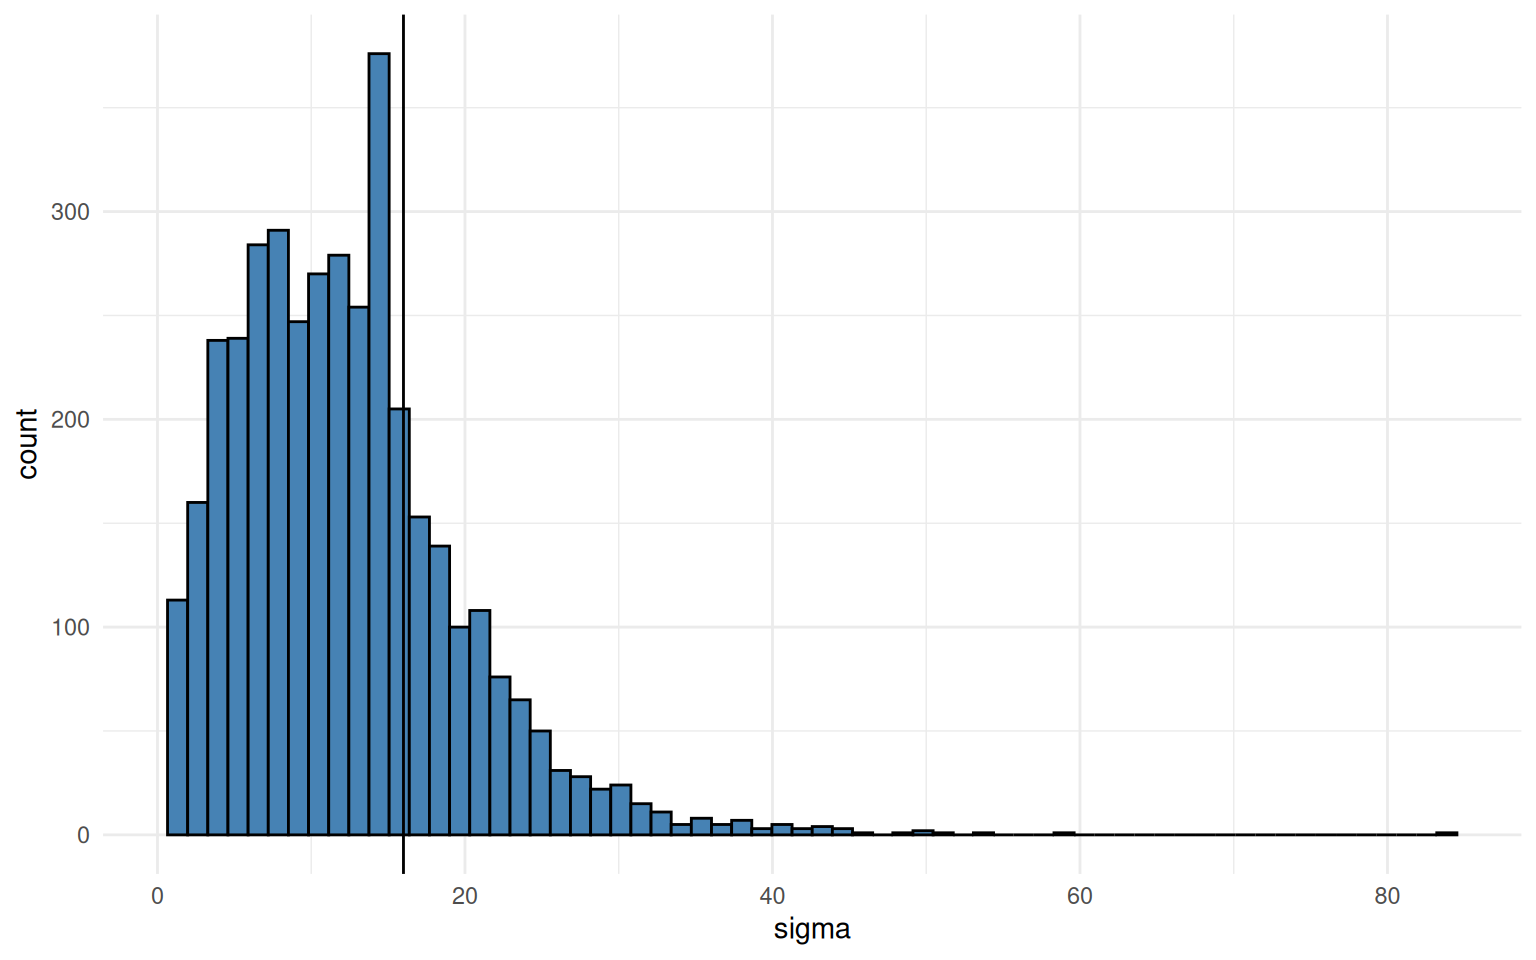
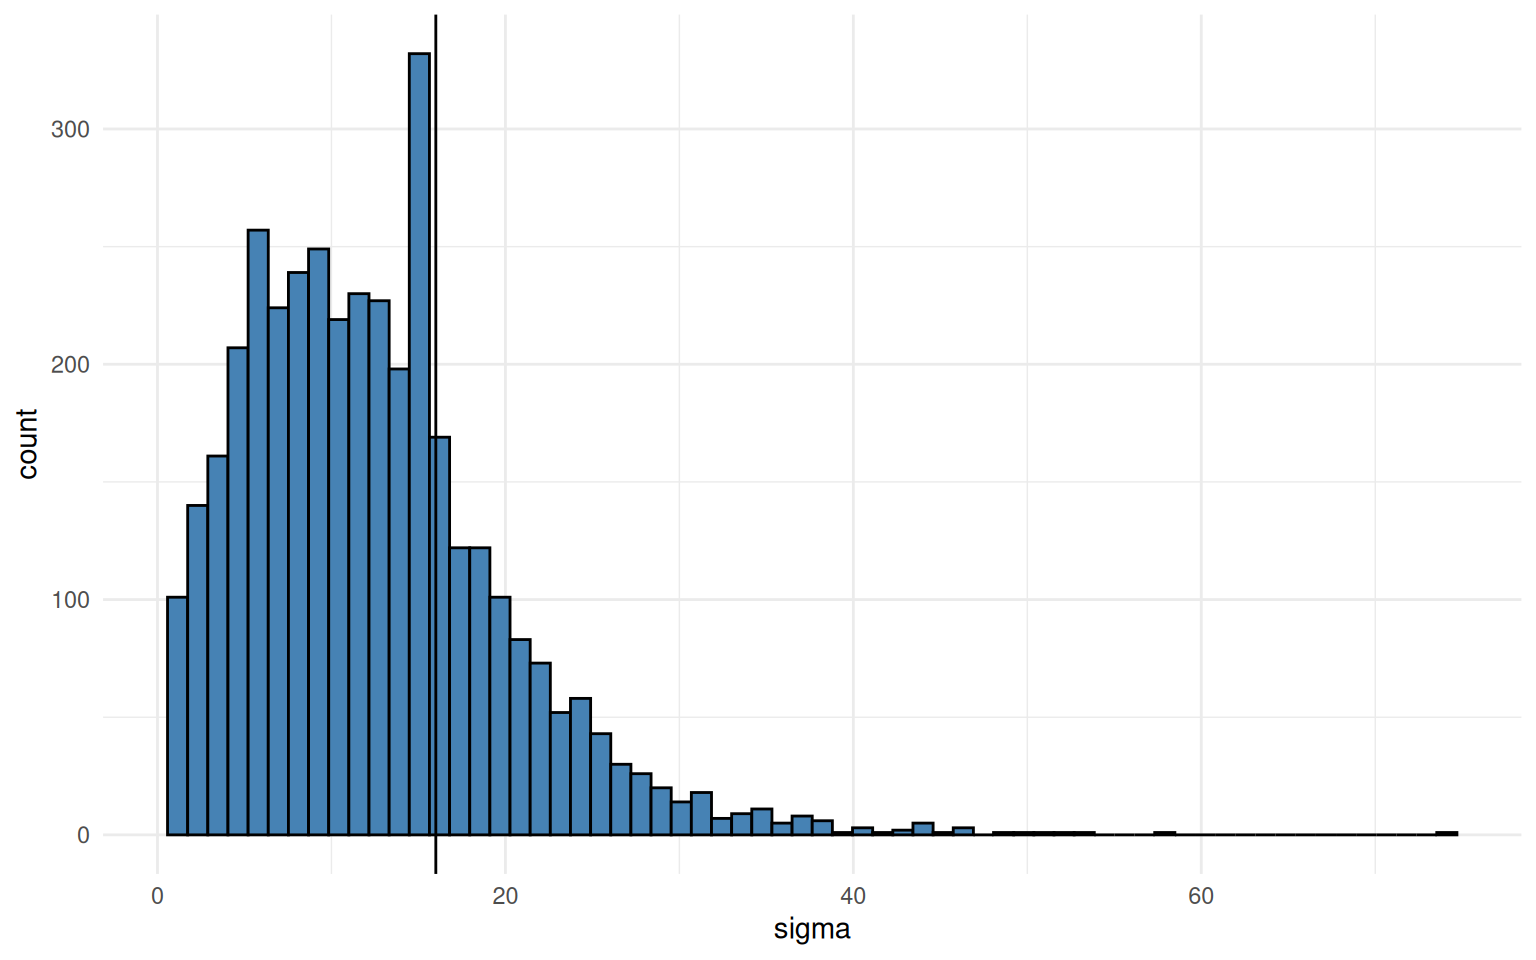
variograms: quarto->md anchors III; parallel RNG

diff --git a/content/tutorials/spatial_variograms/index.md b/content/tutorials/spatial_variograms/index.md
@@ -181,7 +181,7 @@ I mostly skip step 1 (**parameter choice**) from the list above, because it is a
 Ensure that your data is accurate, [exploratory data analysis](https://r4ds.had.co.nz/exploratory-data-analysis.html), evaluation and feedback with meetings and stakeholders - these sorts of things.
 The parameter of interest does not have to be a raw measurement, but can be the end of a long data analysis and modeling pipeline (more on this in <a href="#sec-detrending" class="quarto-xref">Section 3.1</a>).
 
-<a class="anchor" href="#sec-crossdifference"></a>
+<a id="sec-crossdifference"></a>
 
 ## Cross-Difference
 
@@ -214,7 +214,7 @@ lower_triangle <- function (mat) mat[lower.tri(mat)]
 This was just an opportunistic excourse to step 2 **cross calculation** from the roadmap.
 In fact, we are not yet finished preparing our test data set (for which these functions are useful).
 
-<a class="anchor" href="#sec-smoothing"></a>
+<a id="sec-smoothing"></a>
 
 ## Simple Smoothing
 
@@ -280,11 +280,11 @@ As will become clear in the end, the **assumption of Gaussian spatial interdepen
 
 {{% /callout %}}
 
-<a class="anchor" href="#sec-variograms"></a>
+<a id="sec-variograms"></a>
 
 # Variograms
 
-<a class="anchor" href="#sec-detrending"></a>
+<a id="sec-detrending"></a>
 
 ## Debatable "De-Trending"
 
@@ -343,7 +343,7 @@ At any rate, I would recommend to **store the detrended linear effects for later
 
 {{% /callout %}}
 
-<a class="anchor" href="#sec-binning"></a>
+<a id="sec-binning"></a>
 
 ## Beautiful Binning
 
@@ -579,7 +579,7 @@ A plot of the bin-wise semivariance (or other difference measures) against dista
 Good to have.
 Now let's get started.
 
-<a class="anchor" href="#sec-model-regression"></a>
+<a id="sec-model-regression"></a>
 
 # Model Regression
 
@@ -703,7 +703,7 @@ Observations:
 
 We can do better, of course.
 
-<a class="anchor" href="#sec-gauss"></a>
+<a id="sec-gauss"></a>
 
 ## Beloved Bellcurve
 
@@ -926,7 +926,7 @@ fit_variogram <- function(
 }
 ```
 
-<a class="anchor" href="#sec-matern"></a>
+<a id="sec-matern"></a>
 
 ## Matérn Machinery
 
@@ -1144,7 +1144,7 @@ Which brings me to a revision of these effects.
 
 *(How does semivariance change without de-trending and un-smoothed, and why?)*
 
-<a class="anchor" href="#sec-nodetrend"></a>
+<a id="sec-nodetrend"></a>
 
 ## De-activated De-trending
 
@@ -1301,6 +1301,8 @@ I like to have one function which runs the whole procedure and returns a data fr
 ``` r
 subset_bootstrap <- function(i){
 
+  set.seed(i)
+
   # choose a random subset of data rows
   selected_rows <- sample(
     1:nrow(data), 
@@ -1399,11 +1401,11 @@ knitr::kable(bootstrap_quantiles, digits = 1)
 
 | scale | sigma | nugget |    nu | rmse | quantile |
 |------:|------:|-------:|------:|-----:|---------:|
-|   0.0 |   1.7 |    0.0 |   0.0 |  2.0 |        2 |
-|   0.2 |  11.5 |    0.2 |   0.6 |  3.7 |       50 |
-|   0.4 |  31.2 |    0.3 | 100.0 |  8.7 |       98 |
+|   0.0 |   1.6 |    0.0 |   0.0 |  2.0 |        2 |
+|   0.2 |  11.4 |    0.2 |   0.6 |  3.8 |       50 |
+|   0.4 |  31.5 |    0.3 | 100.0 |  8.6 |       98 |
 
-For the majority of bootstraps, the `sigma`-range of spatial coupling falls within the \[1.7, 31.2\] interval.
+For the majority of bootstraps, the `sigma`-range of spatial coupling falls within the \[1.6, 31.5\] interval.
 
 {{% callout note %}}
 
